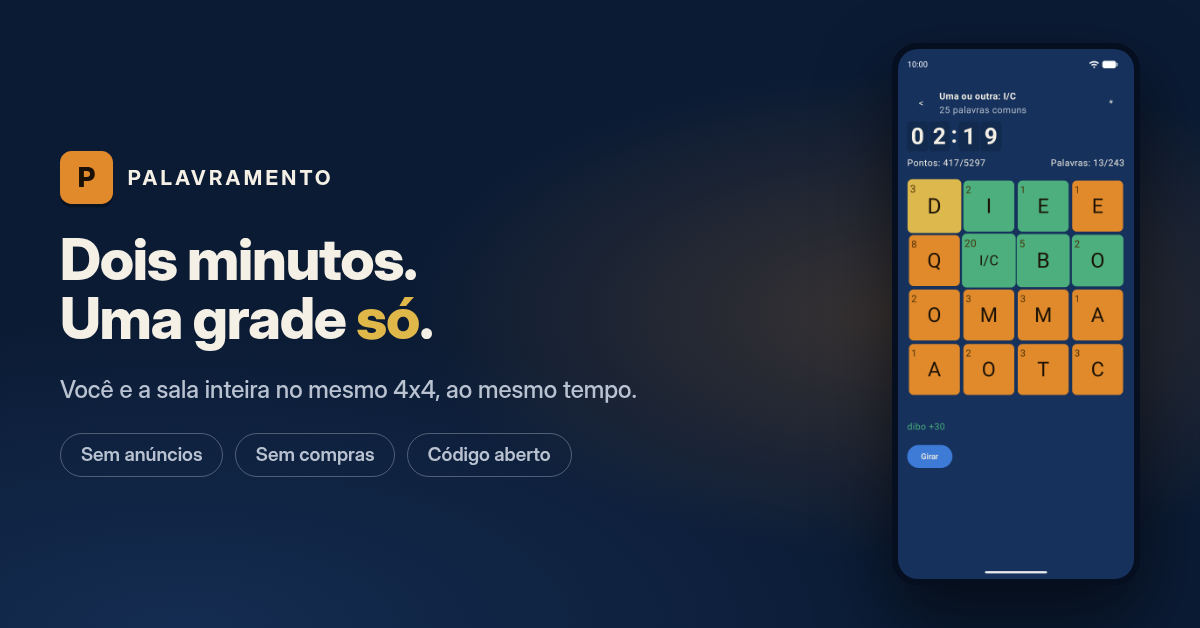
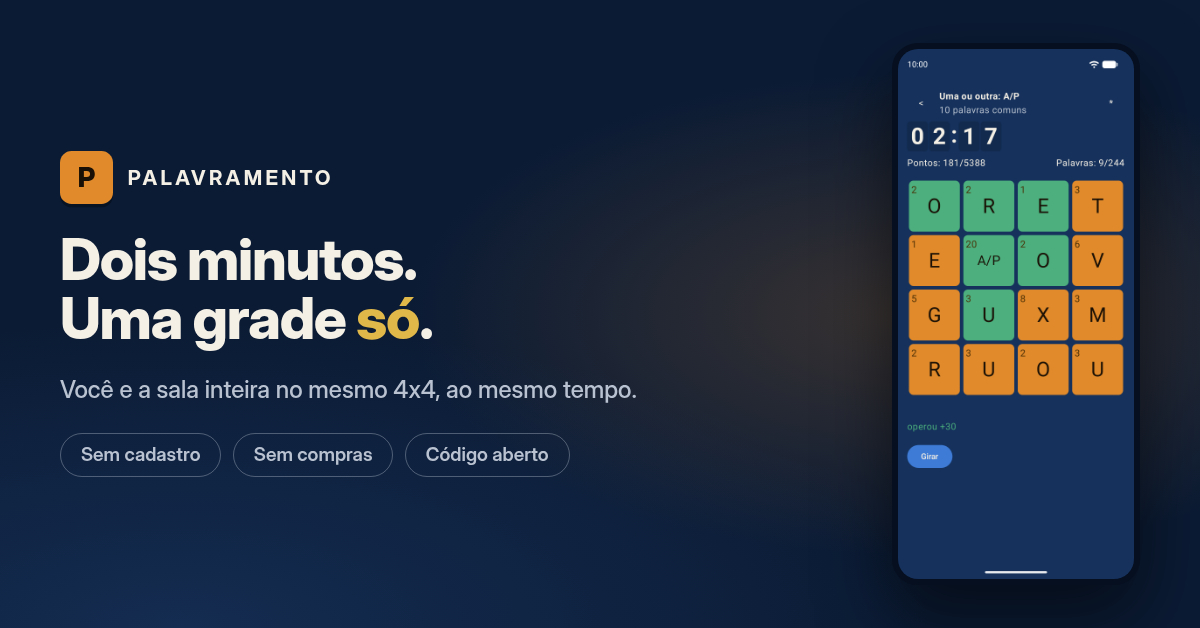
Bring the Google Ads kit in line with what the app says today
The kit was built before the app reached Google Play, and three things in
it had gone stale.

The two banners built from a real screenshot embedded the old match
capture, the one with a word still being traced in yellow next to the
previous word's green flash: the two-words-at-once defect the store
screenshots had, now inside the ad. They embed the new capture.

The landscape and portrait banners carried a "Sem anúncios" badge. The
store copy already dropped that promise, because an in-app footer ad is
planned after 1.0.0, and a badge saying otherwise would turn false the
day it ships, in creatives already approved and running. It reads "Sem
cadastro" now, which the app backs (guests play without an account) and
the kit already claimed in text.

One headline said a new round starts every 2 minutes. A round lasts two
minutes, and the intermission adds 25 seconds, so a new one starts every
2 minutes 25. "Uma rodada atrás da outra" says what is true.

Every other claim was checked against the code: the manifest asks only
for INTERNET, and :app has no billing, analytics or ads library. Only the
four banners whose pixels changed are in this commit; re-rendering also
re-encodes the rest, but those came out identical and were left alone.

The kit no longer lists publishing to Google Play as pending: the listing
is public at br.com.colman.palavramento.

diff --git a/marketing/src/banner.html b/marketing/src/banner.html
@@ -358,7 +358,9 @@ const COPY = {
   },
 }
 
-const BADGES = ['Sem anúncios', 'Sem compras', 'Código aberto']
+// Only claims that stay true: an in-app ad banner is planned after 1.0.0 (marketing/play-store.md),
+// so "no ads" would turn false the day it ships, in creatives already approved and running.
+const BADGES = ['Sem cadastro', 'Sem compras', 'Código aberto']
 
 function badges() {
   const box = el('div', 'badges')

diff --git a/marketing/google-ads.md b/marketing/google-ads.md
@@ -7,8 +7,8 @@ conferidor está em [`src/check-copy.js`](src/check-copy.js).
 ## Antes de criar a campanha
 
 1. **A campanha de App exige o app publicado no Google Play.** Ela não aceita APK avulso nem link
-   para site: você escolhe um app da Play Console e é isso. Enquanto o Palavramento não tiver ficha
-   publicada, não há campanha para criar. A ficha está escrita em [`play-store.md`](play-store.md).
+   para site: você escolhe um app da Play Console e é isso. O Palavramento está publicado desde
+   2026-09-25; a ficha está em [`play-store.md`](play-store.md).
 2. **A campanha de App não aceita palavra-chave.** A segmentação é automática e o Google decide onde
    exibir lendo a ficha da Play Store. Ou seja: o trabalho de palavra-chave acontece no título, na
    descrição curta e na descrição completa da ficha, não aqui. A lista está em
@@ -76,7 +76,7 @@ Títulos:
 | 2 minutos. Uma grade só. | 24 |
 | Placar ao vivo toda rodada | 26 |
 | Ache as palavras antes deles | 28 |
-| Nova rodada a cada 2 min | 24 |
+| Uma rodada atrás da outra | 25 |
 
 Descrições:
 
@@ -166,6 +166,10 @@ marketing/src/render.sh
 
 Uma restrição de política que o layout já respeita: nada nas imagens imita botão clicável. O Google
 reprova imagem com falso elemento de interface.
+
+Os selos das imagens dizem só o que continua verdadeiro: "Sem cadastro", "Sem compras", "Código
+aberto". Um selo "Sem anúncios" ficaria falso no dia em que o anúncio de rodapé entrar (planejado
+para depois da 1.0.0, ver [`play-store.md`](play-store.md)), em criativos já aprovados e rodando.
 
 ## Vídeo
 

diff --git a/marketing/README.md b/marketing/README.md
@@ -22,13 +22,14 @@ módulos.
 Pronto: os textos, as sete imagens, os três cortes de vídeo, o ícone e a imagem de destaque da
 loja, e as seis capturas de tela.
 
+O app está publicado na Google Play desde 2026-09-25
+(`br.com.colman.palavramento`), que era o que impedia criar a campanha.
+
 Falta, e nada disso dá para fazer do repositório:
 
-1. **Publicar o app na Google Play.** Campanha de App exige um app na Play Console; não existe
-   forma de anunciar um APK avulso. A ficha está escrita em [`play-store.md`](play-store.md).
-2. **Vincular a conta do Google Ads à Play Console**, senão a campanha não recebe a conversão de
+1. **Vincular a conta do Google Ads à Play Console**, senão a campanha não recebe a conversão de
    instalação e otimiza no escuro.
-3. **Subir os três vídeos ao YouTube** (não listado serve) e colar as URLs na campanha.
+2. **Subir os três vídeos ao YouTube** (não listado serve) e colar as URLs na campanha.
 
 ## Regerar
 
